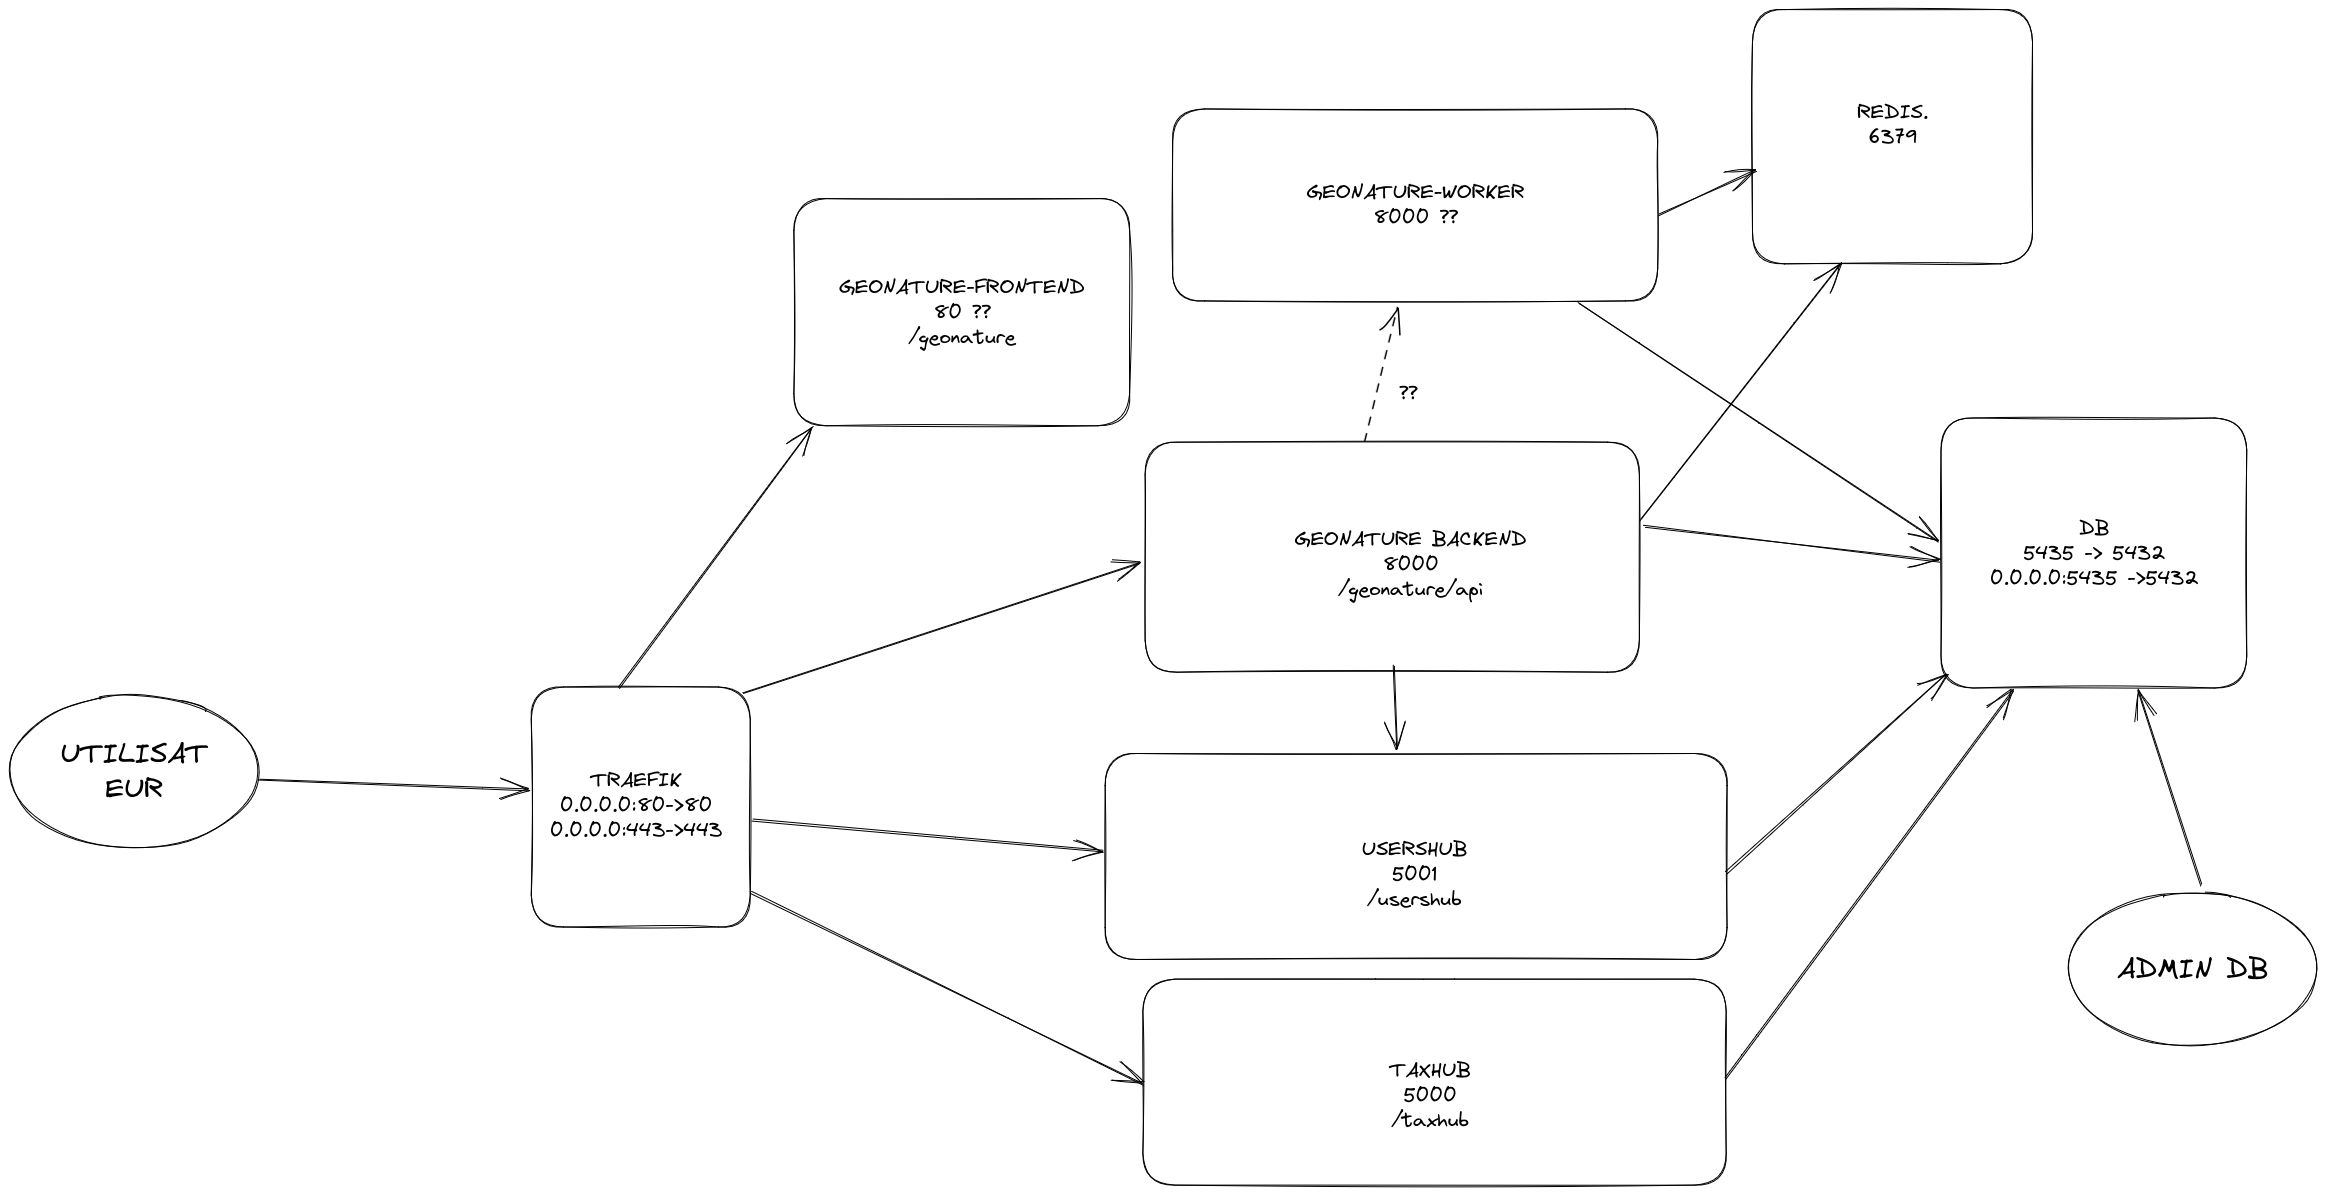
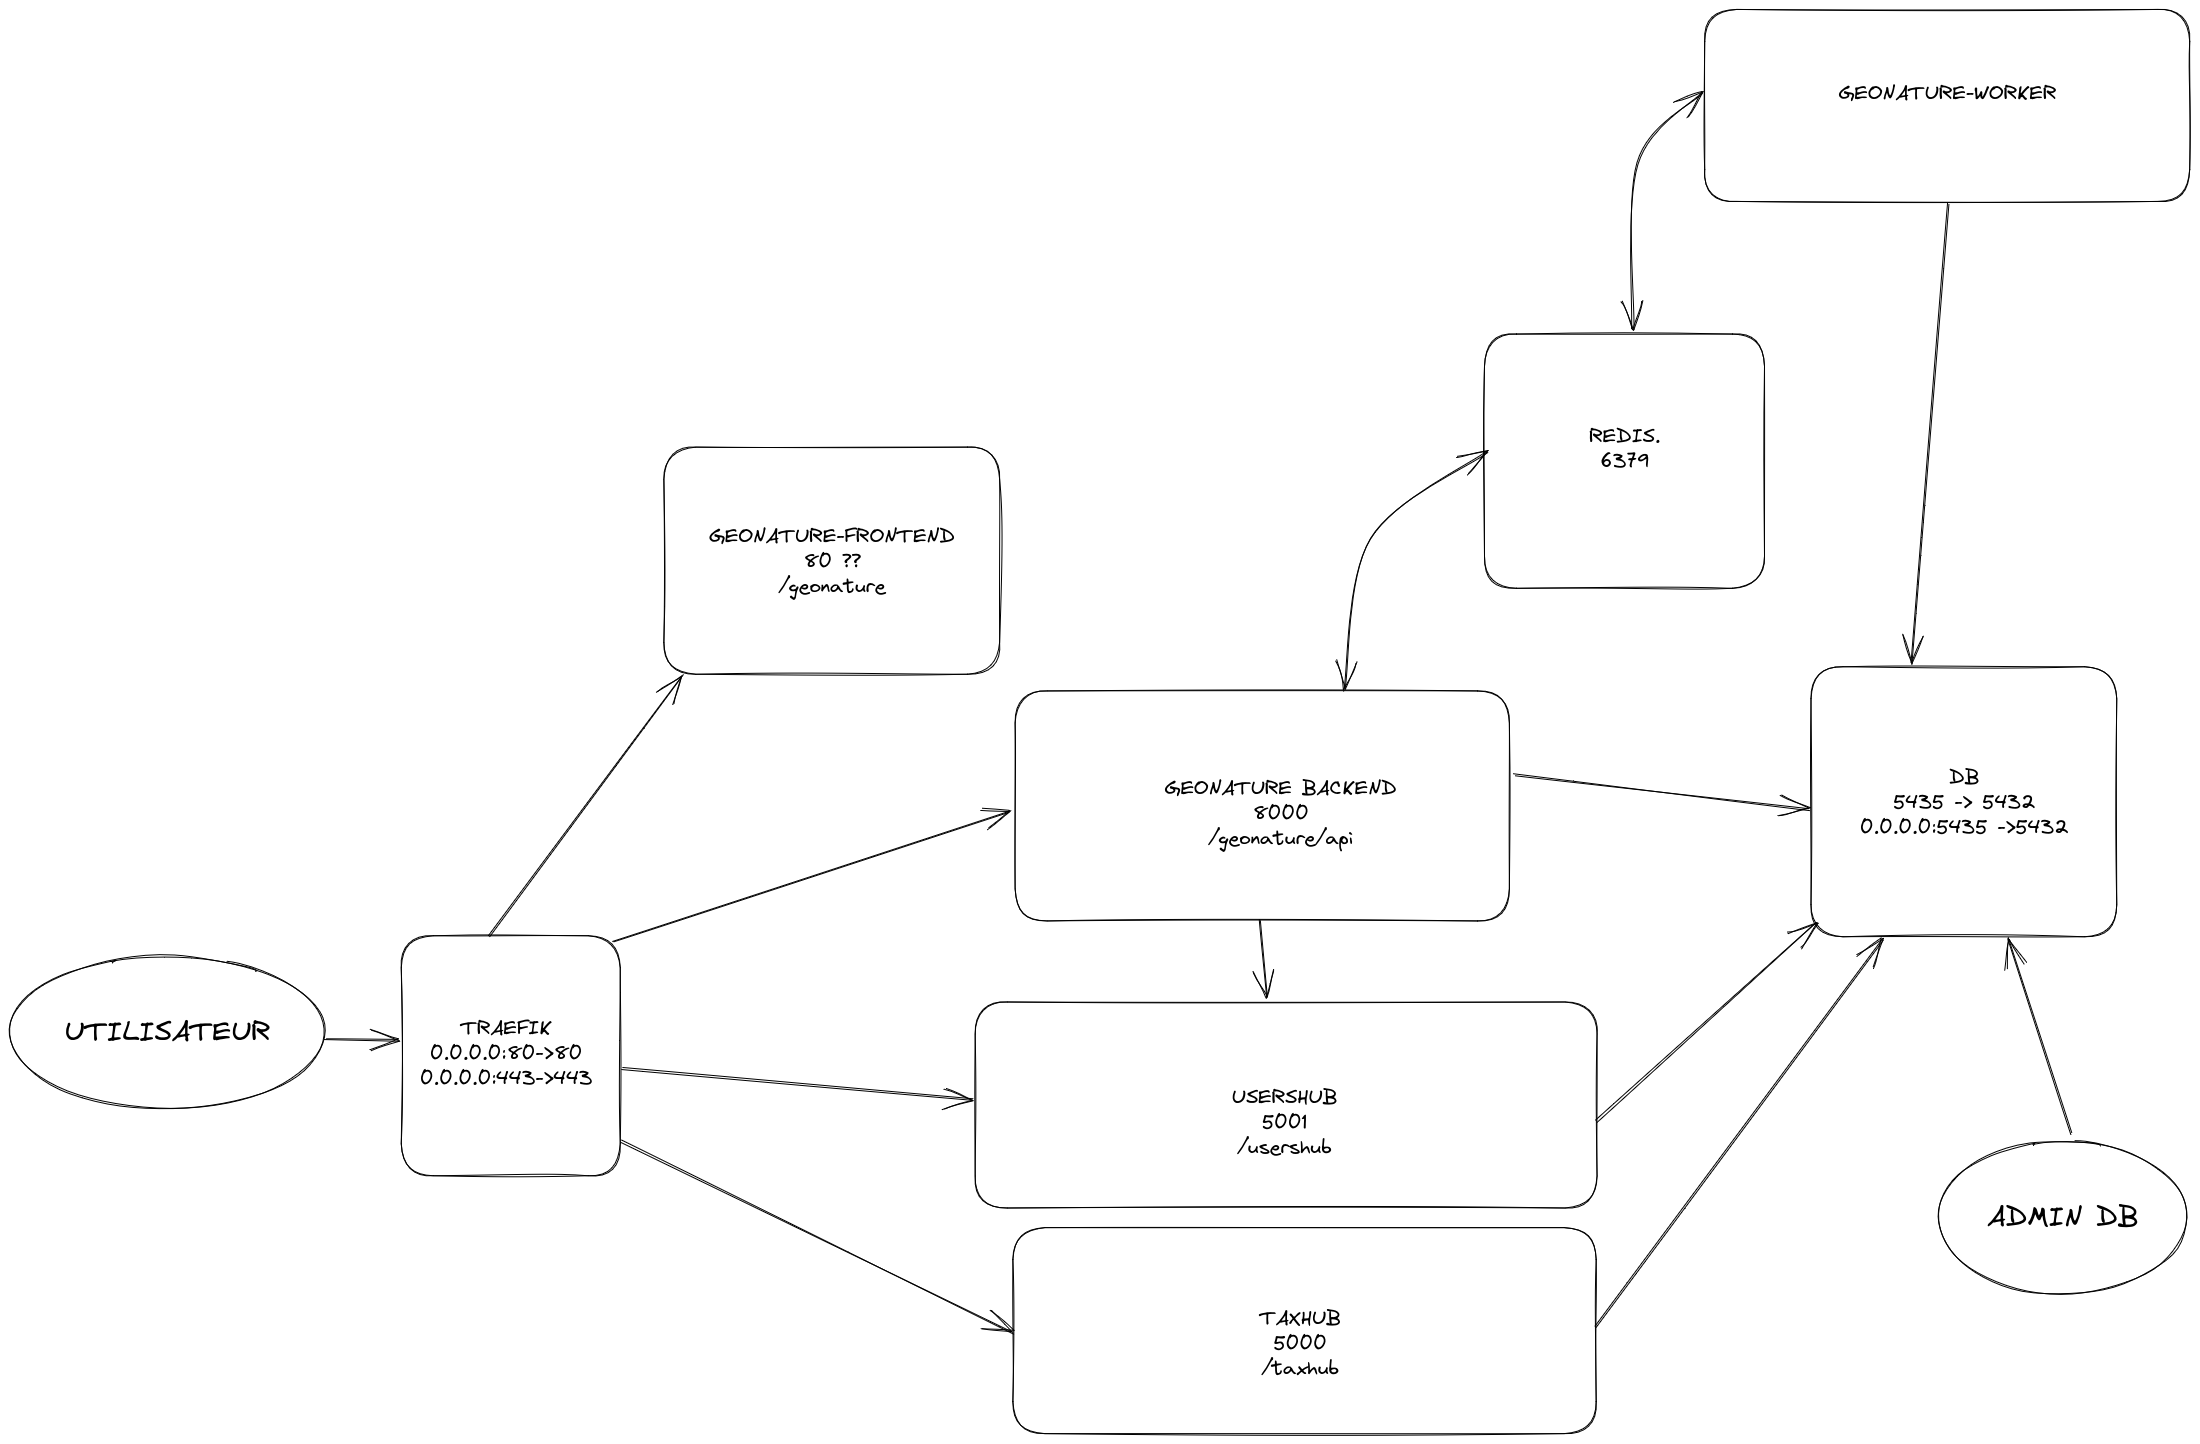
up README

diff --git a/README.md b/README.md
@@ -30,23 +30,34 @@ Dockerisation de geonature et d'application associées
     https://github.com/PnX-SI/TaxHub/blob/master/.github/workflows/docker.yml
 
 
+## Configuration
 
-## Commandes
+- .env.prod
+    - utilise les images docker des application taggées en `:latest`
+        - `ghcr.io/pnx-si/geonature-backend:latest`
+        - `ghcr.io/pnx-si/usershub-backend:latest`
+        - `ghcr.io/pnx-si/taxhub-backend:latest`
+    - protocole `HTTPS`
+    - ports `80/443`
+
+- env.dev
+    - utilise les images docker des application taggées en `:develop`
+    - protocole `HTPP`
+    - url des applications suffixées par `:<PORT>` (par exemple `localhost:8000` pour le service `geonature-backend`)
+    - ports `8081/8183`
+
+- env.current
+    - similaire à env.dev
+    - on build les images pour GeoNature (`FRONTEND` et `BACKEND`) (voir [build_geonature_all.sh](./build/build_geonature_all.sh)
+      - à partir du code des sous-modules github
+      - pour GeoNature seul
+      - pour GeoNature avec les 4 modules principaux (`IMPORT`, `EXPORT`, `DASHBOARD`, `MONITORING`)
+    - pour `UH` et `TH` on utilise (`:latest`)
+      - TODO builder les applis à partir du code des sous-modules github
+    - permet de pouvoir builder des images aux versions souhaitées (pour GeoNature et les modules) sans dépendre des versions releasées.
 
 
-- Pour pouvoir tester GeoNature avec les 4 modules
-
-```
-cp .env.dev .env
-source .env
-
-# Idéalement ces images seraient publié sur le dépot de geonature
-docker build -f Dockerfile-geonature-frontend -t ${GEONATURE_FRONTEND_IMAGE} .
-docker build -f Dockerfile-geonature-backend -t ${GEONATURE_BACKEND_IMAGE} .
-
-docker-compose up
-```
-
+## Schema des services
 
 ```
 SERVICE              PORTS
